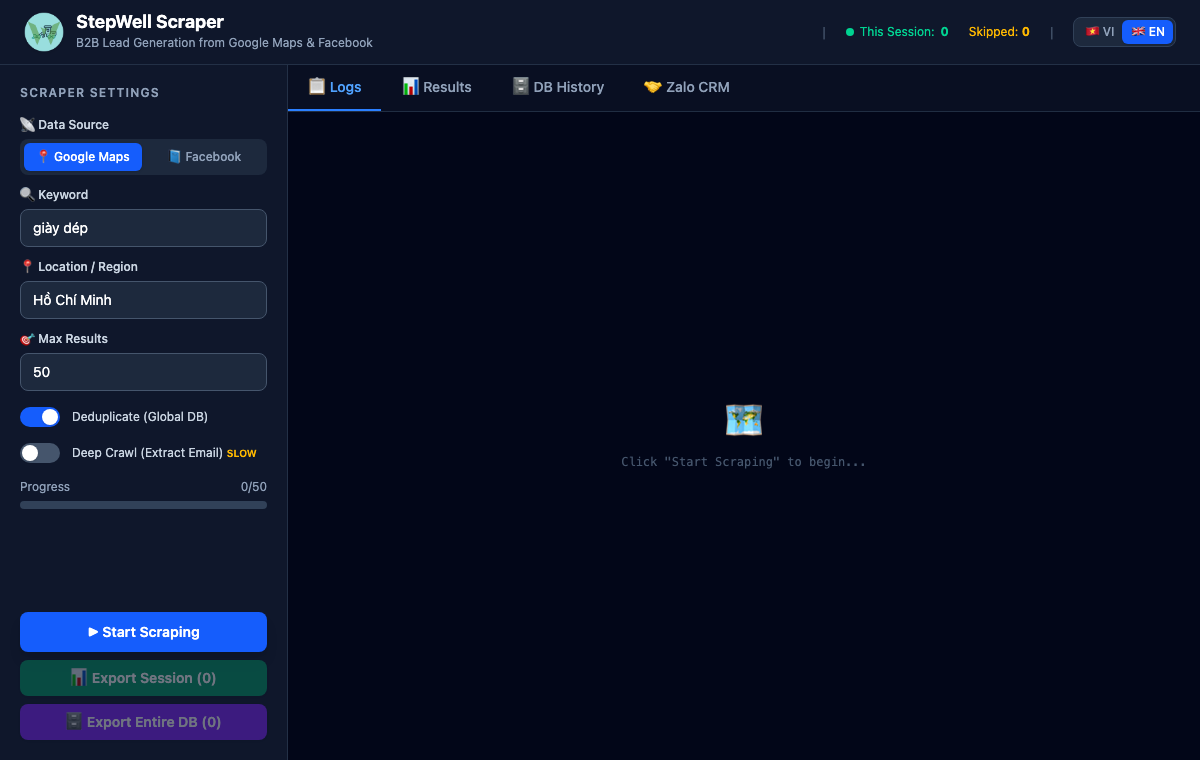
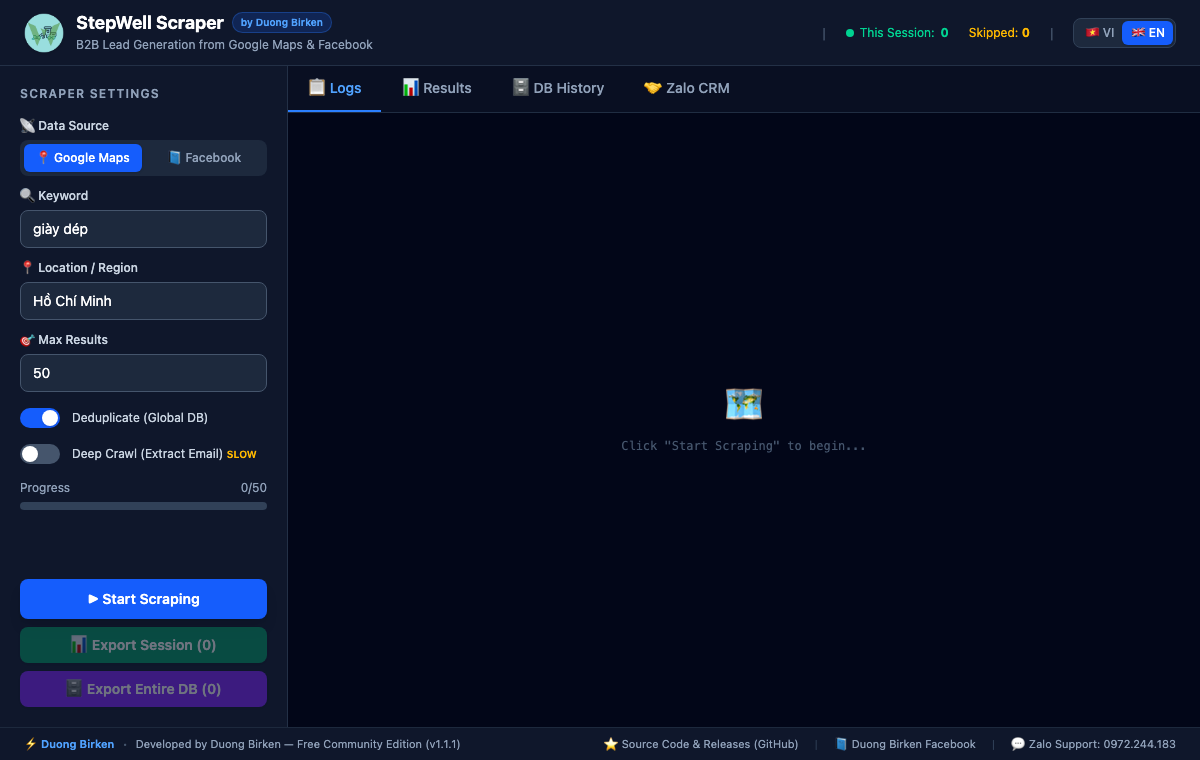
feat: add Duong Birken personal branding footer and GitHub Actions release workflow

diff --git a/src/App.tsx b/src/App.tsx
@@ -2,6 +2,7 @@ import { useState, useRef, useEffect, useCallback } from "react";
 import { invoke } from "@tauri-apps/api/core";
 import { listen } from "@tauri-apps/api/event";
 import { save } from "@tauri-apps/plugin-dialog";
+import { openUrl } from "@tauri-apps/plugin-opener";
 import ZaloTab from "./ZaloTab";
 import { I18nContext, Language, translations } from "./i18n";
 import "./App.css";
@@ -330,7 +331,12 @@ function App() {
           <div className="flex items-center gap-3">
             <img src={appLogo} alt="StepWell Logo" className="w-10 h-10 object-contain drop-shadow-sm" />
             <div>
-              <h1 className="text-lg font-bold text-white leading-none">StepWell Scraper</h1>
+              <div className="flex items-center gap-2">
+                <h1 className="text-lg font-bold text-white leading-none">StepWell Scraper</h1>
+                <span className="px-2 py-0.5 text-[10px] font-semibold bg-blue-600/20 text-blue-400 border border-blue-500/30 rounded-full">
+                  {t.byAuthor}
+                </span>
+              </div>
               <p className="text-xs text-slate-400 mt-1">{t.appSubtitle}</p>
             </div>
           </div>
@@ -681,6 +687,40 @@ function App() {
             {activeTab === "zalo" && <ZaloTab />}
           </main>
         </div>
+
+        {/* ── Brand Footer (Duong Birken) ── */}
+        <footer className="flex items-center justify-between px-6 py-2 bg-slate-900 border-t border-slate-800 text-[11px] text-slate-400 shrink-0">
+          <div className="flex items-center gap-2">
+            <span className="text-blue-400 font-semibold">⚡ Duong Birken</span>
+            <span className="text-slate-600">•</span>
+            <span>{t.footerCopyright} (v1.1.1)</span>
+          </div>
+          <div className="flex items-center gap-4">
+            <button
+              onClick={() => openUrl("https://github.com/duongbirken2510/Map-Scaper").catch(() => window.open("https://github.com/duongbirken2510/Map-Scaper", "_blank"))}
+              className="hover:text-white transition-colors flex items-center gap-1 cursor-pointer"
+            >
+              <span>⭐</span>
+              <span>{t.footerGithub}</span>
+            </button>
+            <span className="text-slate-700">|</span>
+            <button
+              onClick={() => openUrl("https://www.facebook.com/duongbirken").catch(() => window.open("https://www.facebook.com/duongbirken", "_blank"))}
+              className="hover:text-blue-400 transition-colors flex items-center gap-1 cursor-pointer"
+            >
+              <span>📘</span>
+              <span>{t.footerFacebook}</span>
+            </button>
+            <span className="text-slate-700">|</span>
+            <button
+              onClick={() => openUrl("https://zalo.me/0972244183").catch(() => window.open("https://zalo.me/0972244183", "_blank"))}
+              className="hover:text-emerald-400 transition-colors flex items-center gap-1 cursor-pointer"
+            >
+              <span>💬</span>
+              <span>{t.footerZalo}</span>
+            </button>
+          </div>
+        </footer>
       </div>
     </I18nContext.Provider>
   );

diff --git a/src/i18n.ts b/src/i18n.ts
@@ -164,7 +164,7 @@ export const translations = {
     saveConfigBtn: "Lưu cấu hình",
     composeEmailTitle: "2. Soạn thảo Nội dung",
     emailSubjectLabel: "Tiêu đề (Subject)",
-    emailSubjectPlaceholder: "{Hợp tác|Thư ngỏ|Gửi thư từ xưởng giày Tigish} - Gửi quản lý cửa hàng [Tên]",
+    emailSubjectPlaceholder: "{Hợp tác|Thư ngỏ|Đề xuất hợp tác từ Duong Birken} - Gửi quản lý cửa hàng [Tên]",
     emailBodyLabel: "Nội dung (Hỗ trợ HTML)",
     emailBodyPlaceholder: "<p>{Kính chào|Xin chào} Anh/Chị quản lý cửa hàng [Tên]...</p>",
     supportedVarsLabel: "Biến hỗ trợ:",
@@ -187,6 +187,13 @@ export const translations = {
     zaloLimitWarn3: "• Vượt giới hạn → tài khoản có thể bị khóa tạm 1-7 ngày",
     saveSettingsBtn: "💾 Lưu cài đặt",
     settingsSavedAlert: "Đã lưu cài đặt!",
+
+    // Footer & Branding (Duong Birken)
+    byAuthor: "bởi Duong Birken",
+    footerCopyright: "Phát triển bởi Duong Birken — Phiên bản Cộng đồng Miễn phí",
+    footerGithub: "Mã nguồn & Tải bản mới (GitHub)",
+    footerFacebook: "Facebook Duong Birken",
+    footerZalo: "Zalo hỗ trợ: 0972.244.183",
   },
   en: {
     // Header
@@ -372,6 +379,13 @@ export const translations = {
     zaloLimitWarn3: "• Exceeding limits may temporarily restrict your account for 1–7 days",
     saveSettingsBtn: "💾 Save Settings",
     settingsSavedAlert: "Settings saved!",
+
+    // Footer & Branding (Duong Birken)
+    byAuthor: "by Duong Birken",
+    footerCopyright: "Developed by Duong Birken — Free Community Edition",
+    footerGithub: "Source Code & Releases (GitHub)",
+    footerFacebook: "Duong Birken Facebook",
+    footerZalo: "Zalo Support: 0972.244.183",
   },
 } as const;
 
@@ -390,3 +404,4 @@ export const I18nContext = createContext<I18nContextType>({
 });
 
 export const useI18n = () => useContext(I18nContext);
+

diff --git a/src-tauri/src/database.rs b/src-tauri/src/database.rs
@@ -145,13 +145,13 @@ impl Database {
 
         // Insert default settings if not exist
         let default_email_body = r#"<p>{Kính chào|Xin chào|Chào} Anh/Chị quản lý cửa hàng <b>[Tên]</b>,</p>
-<p>{Em là|Em tên là|Tôi là} Nguyên, phụ trách {bộ phận Phát triển Đại lý|mảng phân phối sỉ|bộ phận kinh doanh} của xưởng giày <b>Tigish Việt Nam</b>.</p>
-<p>{Em có lướt qua|Đội ngũ bên em có tìm hiểu|Bên em tình cờ biết đến} {cửa hàng|thương hiệu} của Anh/Chị và thấy {rất ấn tượng|rất phù hợp|định hướng rất đồng điệu} với các dòng sản phẩm giày dép mà {nhà xưởng bên em|xưởng Tigish} đang sản xuất.</p>
-<p>{Hiện tại|Thời gian này|Tháng này}, Tigish đang {mở rộng mạng lưới đại lý|tìm kiếm đối tác phân phối|đẩy mạnh bỏ sỉ} tại khu vực của Anh/Chị với mức chiết khấu {rất hấp dẫn|cực kỳ ưu đãi cho đối tác mới|cạnh tranh nhất thị trường}. Hàng bên em {đều được gia công trực tiếp tại xưởng|luôn cập nhật mẫu mã liên tục|đảm bảo chất lượng chuẩn xuất khẩu} và đặc biệt không qua trung gian.</p>
-<p>{Anh/Chị có quan tâm|Nếu Anh/Chị có nhu cầu, em có thể|Không biết Anh/Chị có muốn} {nhận báo giá sỉ|em gửi catalog hình ảnh|xem qua danh sách mẫu mã} của bên em để tham khảo thêm không?</p>
+<p>{Em là|Em tên là|Tôi là} <b>Duong Birken</b>, phụ trách {bộ phận Phát triển Đối tác|mảng phân phối sỉ|bộ phận kinh doanh}.</p>
+<p>{Em có lướt qua|Đội ngũ bên em có tìm hiểu|Bên em tình cờ biết đến} {cửa hàng|thương hiệu} của Anh/Chị tại [Website] và thấy {rất ấn tượng|rất phù hợp|định hướng rất đồng điệu} với các dòng sản phẩm mà bên em đang cung cấp.</p>
+<p>{Hiện tại|Thời gian này|Tháng này}, bên em đang {mở rộng mạng lưới đại lý|tìm kiếm đối tác phân phối|đẩy mạnh hợp tác B2B} tại khu vực của Anh/Chị với mức chiết khấu {rất hấp dẫn|cực kỳ ưu đãi cho đối tác mới|cạnh tranh nhất thị trường}.</p>
+<p>{Anh/Chị có quan tâm|Nếu Anh/Chị có nhu cầu, em có thể|Không biết Anh/Chị có muốn} {nhận báo giá sỉ|em gửi catalog hình ảnh|xem qua danh sách mẫu mã} để tham khảo thêm không?</p>
 <p>{Anh/Chị chỉ cần phản hồi "Có"|Anh/Chị cứ reply lại email này nhé|Chỉ cần nhắn lại "Gửi anh/chị xem"}, em sẽ {phản hồi qua ngay|gửi thông tin chi tiết ngay lập tức|tổng hợp file gửi cho Anh/Chị ngay}.</p>
 <p>{Trân trọng|Chúc Anh/Chị một ngày kinh doanh hiệu quả|Cảm ơn Anh/Chị đã dành thời gian đọc thư},<br>
-<b>Đại diện Kinh Doanh - Xưởng giày Tigish</b><br>
+<b>Duong Birken</b><br>
 📞 Zalo/Hotline: +84 972 244 183</p>"#;
 
         let defaults = [
@@ -162,7 +162,7 @@ impl Database {
             // Email outreach has its own separate delay settings
             ("email_delay_min", "30"),
             ("email_delay_max", "60"),
-            ("email_subject", "{Hợp tác|Thư ngỏ|Gửi thư từ xưởng giày Tigish} - Gửi quản lý cửa hàng [Tên]"),
+            ("email_subject", "{Hợp tác|Thư ngỏ|Đề xuất hợp tác từ Duong Birken} - Gửi quản lý cửa hàng [Tên]"),
             ("email_body", default_email_body),
         ];
         for (key, value) in &defaults {

diff --git a/README.md b/README.md
@@ -15,7 +15,7 @@
 [![SQLite](https://img.shields.io/badge/SQLite-Bundled-003B57?logo=sqlite&logoColor=white)](https://www.sqlite.org/)
 [![Language](https://img.shields.io/badge/i18n-Tiếng_Việt_%7C_English-10B981)](#)
 
-[**🇬🇧 English Documentation**](#-english-overview) • [**🇻🇳 Tài Liệu Tiếng Việt**](#-tổng-quan-tiếng-việt) • [**📖 Hướng Dẫn Chi Tiết (VN)**](./HUONG_DAN_SU_DUNG.md)
+[**📥 Download Installers (.exe / .dmg)**](https://github.com/duongbirken2510/Map-Scaper/releases) • [**🇬🇧 English Documentation**](#-english-overview) • [**🇻🇳 Tài Liệu Tiếng Việt**](#-tổng-quan-tiếng-việt) • [**📖 Hướng Dẫn Chi Tiết (VN)**](./HUONG_DAN_SU_DUNG.md)
 
 </div>
 
@@ -117,5 +117,14 @@ Xem toàn bộ hướng dẫn từng bước cho người dùng cuối và cách
 
 ---
 
+## 👤 Author & Community Support / Tác Giả & Liên Hệ
+
+Developed and shared free for the community by **Duong Birken**:
+- ⭐ **GitHub:** [github.com/duongbirken2510/Map-Scaper](https://github.com/duongbirken2510/Map-Scaper)
+- 📘 **Facebook:** [facebook.com/duongbirken](https://www.facebook.com/duongbirken)
+- 💬 **Zalo / Hotline:** [0972.244.183](https://zalo.me/0972244183)
+
+---
+
 ## 📄 License
-Copyright © StepWell Vietnam / Tidu System. All rights reserved.
+Copyright © 2026 **Duong Birken**. Free Community Edition.
